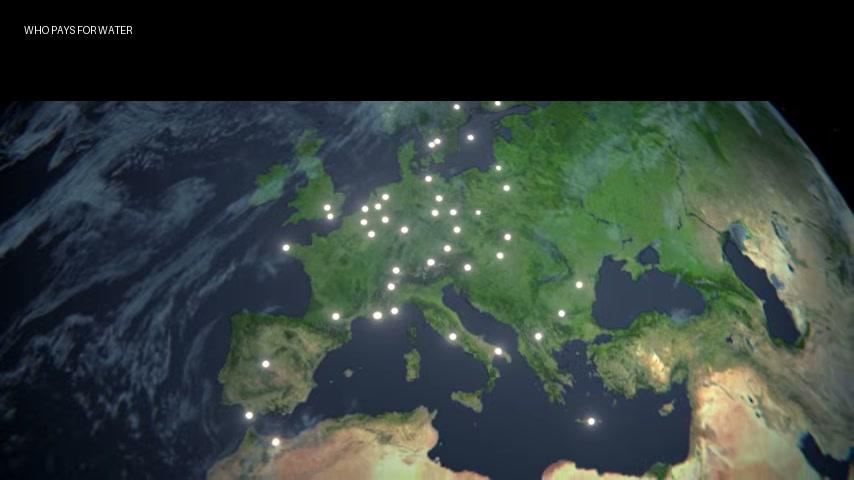
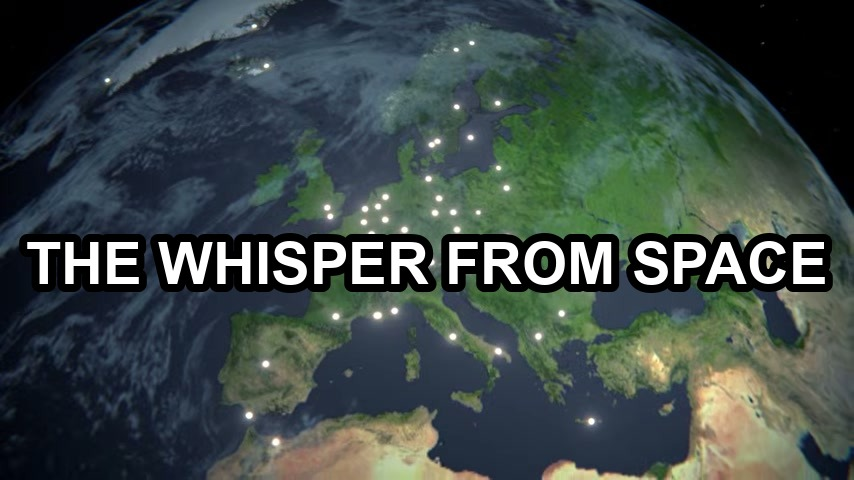
content(medium): GPS jamming review fixes + correct hero overlay, drop presenter frame

Changed region(s): [[0.0304, 0.0, 0.9133, 0.2188], [0.0, 0.4688, 0.9742, 0.625]]

diff --git a/nextjs/public/medium/youtube-gps-jamming-clue-space-tz23g-uxcga/index.html b/nextjs/public/medium/youtube-gps-jamming-clue-space-tz23g-uxcga/index.html
@@ -5,7 +5,7 @@
   <meta name="viewport" content="width=device-width, initial-scale=1">
   <meta name="robots" content="index,follow">
   <meta name="article:status" content="preview">
[2 lines of base64/hex data omitted]
   <link rel="canonical" href="https://www.maxpetrusenko.com/medium/youtube-gps-jamming-clue-space-tz23g-uxcga/">
   <title>Something Is Jamming GPS Over Europe. The Clue Was in Space</title>
   <style>
@@ -80,7 +80,7 @@
 <body>
   <main>
 <h1>Something Is Jamming GPS Over Europe. The Clue Was in Space</h1>
-<p><em>A Veritasium investigation follows Todd Humphreys from continent-wide signal drops to Cosmos 2546. GPS is weak radio timing infrastructure, and operators need a fallback.</em></p>
+<p><em>GPS works because Earth listens to a whisper from space. Someone found a way to shout over it.</em></p>
 <figure><img src="/medium/youtube-gps-jamming-clue-space-tz23g-uxcga/assets/youtube-frames/selected/01-continental-signal-drops-overlay.jpg" alt="A continental visualization of GNSS signal drops over Europe"></figure>
 <blockquote><p>GPS jamming works because satellite navigation depends on extremely weak timing signals from distant clocks. A receiver compares when several satellite signals arrive, then calculates position and time. A stronger transmission in the same band can drown out that timing data and turn a precise system into noise.</p></blockquote>
 <p>The blue dot feels solid because the interface is solid. You press a button, the map centers itself, the car reroutes, the plane descends, the delivery arrives, and the timestamp agrees with the tower timestamp. Nobody has to think about the radio physics under the glass.</p>
@@ -90,10 +90,9 @@
 <p>In November 2024, University of Texas at Austin GPS researcher Todd Humphreys received a narrow tip. Check two exact times in public data collected years earlier by GNSS reference stations. Humphreys and Zach Clements looked, found the times, and saw receivers across a wide network drop at the same moment.</p>
 <p>The measured signal-to-noise ratio fell by roughly a factor of ten. Looking backward, they found 75 days since 2019 with similar disruptions. The arXiv paper, <em>Chasing Lightning</em>, describes &quot;scores of powerful transient wide-area interference events over continental Europe, Greenland, and Canada since 2019&quot; and identifies the likely source as a constellation of Russian early-warning satellites in Molniya orbits. The paper has been submitted for journal review, so the right posture is attention with the temperature kept low (<a href="https://arxiv.org/abs/2606.03673" target="_blank" rel="noopener noreferrer">Chasing Lightning on arXiv</a>).</p>
 <p>The early map suggested Poland or Kaliningrad, an area already associated with electronic warfare and GNSS disruption. The geometry made that too simple because a ground source has terrain, curvature, and altitude limits. The disruptions appeared across a huge footprint at the same time, including Svalbard and westward receivers as far as Canada.</p>
-<figure><img src="/medium/youtube-gps-jamming-clue-space-tz23g-uxcga/assets/youtube-frames/selected/02-gps-signal-whisper.jpg" alt="GPS uses timing differences from distant satellites; the useful signal arrives tiny"></figure>
 <h2>GPS is a timing system that happens to draw maps</h2>
 <p>GPS, Galileo, GLONASS, BeiDou, and related systems sit under the broader name GNSS, Global Navigation Satellite Systems. A receiver solves position by comparing arrival times from multiple satellites. Each satellite tells the receiver where it was and when the signal left, and the receiver compares that with when the signal arrived. Time becomes distance, then distance becomes the dot on the map.</p>
-<p>The scale creates the weakness inside the magic trick. A timing error of 100 nanoseconds throws position off by about 30 meters. Atmospheric delay and relativity both matter, and the transcript puts the received GPS signal near 10^-16 watts, a number so small that &quot;signal&quot; almost feels like bravado. Jamming exploits that asymmetry by making the receiver hear something louder than the satellite clocks.</p>
+<p>The scale creates the weakness inside the magic trick. 100 nanoseconds corresponds to about 30 meters of light-travel distance, which shows how brutally sensitive GNSS is to timing. Atmospheric delay and relativity both matter, and the transcript puts the received GPS signal near 10^-16 watts, a number so small that &quot;signal&quot; almost feels like bravado. Jamming exploits that asymmetry by making the receiver hear something louder than the satellite clocks.</p>
 <p>Aviation makes GNSS failures visible because aircraft report them, cross borders, and fly high enough to keep line of sight to interference. The dependency reaches further into cell towers, financial systems, logistics networks, ports, emergency response, mapping apps, and ordinary phones. The map app is only the surface of a shared timing dependency.</p>
 <p>A September 2025 Associated Press report carried by PBS said European Commission President Ursula von der Leyen&#39;s plane was hit by GPS jamming on a flight to Bulgaria, and it cited Baltic and Nordic warnings about growing interference from Russia. Latvia recorded 820 satellite-signal interference cases in 2024, up from 26 in 2022. Those figures do not assign every event to the same source. They show that satellite-navigation interference has moved from background noise to operational reality (<a href="https://www.pbs.org/newshour/world/what-to-know-about-russias-gps-jamming-of-a-european-officials-plane" target="_blank" rel="noopener noreferrer">PBS report on the AP story</a>).</p>
 <h2>The schedule ruled out accident</h2>
@@ -108,11 +107,10 @@
 <p>The candidate that stayed aligned was Cosmos 2546, a Russian satellite launched in 2020. It tracked the hyperboloid within the uncertainty of public orbital data. Cosmos 2546 cannot explain events before its launch in May 2020, but it belongs to a broader Russian early-warning constellation in Molniya orbits. The <a href="https://arxiv.org/abs/2606.03673" target="_blank" rel="noopener noreferrer">Chasing Lightning</a> abstract says the paper uses received-power and time-difference-of-arrival techniques to identify that constellation as the interference source.</p>
 <p>Orbital altitude changes the threat model. A jammer on the ground has geography working against it. A source in space has line of sight to a continent.</p>
 <h2>The map is already noisy</h2>
-<figure><img src="/medium/youtube-gps-jamming-clue-space-tz23g-uxcga/assets/youtube-frames/selected/03-jamming-map-europe.jpg" alt="Aircraft-reported interference over Europe appears as a heat map on GPSJam.org"></figure>
+<figure><img src="/medium/youtube-gps-jamming-clue-space-tz23g-uxcga/assets/youtube-frames/selected/03-jamming-map-europe.jpg" alt="Aircraft-reported interference over Europe appears as a live jamming heat map"></figure>
 <p>Most public GPS interference maps are built from aircraft reports. <a href="https://gpsjam.org/?lat=55.22483&amp;lon=17.23509&amp;z=5.8&amp;date=2024-10-14" target="_blank" rel="noopener noreferrer">GPSJam.org</a> visualizes degraded navigation by aggregating aircraft data, which is useful because planes become sensors. It is incomplete because it shows the world through systems that report their own navigation quality.</p>
-<p>Spire&#39;s 2025 Baltic report makes the same point from a commercial satellite-data angle. In an October 2024 case around the Baltic Sea, Spire described GNSS disruption near Kaliningrad and confirmed aircraft navigation impacts from satellite-based monitoring. It also reported that Polish researchers and GPSPATRON detected 84 hours of GNSS interference over six months, with position errors exceeding 30 meters in cited maritime reporting (<a href="https://spire.com/blog/space-reconnaissance/gnss-interference-report-russia/" target="_blank" rel="noopener noreferrer">Spire GNSS interference report</a>).</p>
-<p>Each layer does a different job in the evidence stack. Aircraft show navigation failures in flight, ground stations show signal behavior at fixed receivers, satellite data can reveal patterns that heat maps miss, and raw radio captures can turn a mystery into a source hypothesis. Jamming and spoofing live in the ambiguity between those layers, so the honest claim has to stay narrower than the scary one.</p>
-<p>The narrow claim is still large enough to matter. Satellite navigation has become contested infrastructure. A map can show disruption while leaving intent open, a diplomatic statement can blame a state while hiding methods, a research paper can identify a likely source while still needing peer review, and an aircraft can lose reliable GPS and land safely using other systems.</p>
+<p>Spire&#39;s 2025 Baltic report makes the same point from a commercial satellite-data angle. In an October 2024 case around the Baltic Sea, Spire described GNSS disruption near Kaliningrad and confirmed aircraft navigation impacts from satellite-based monitoring, while Polish researchers and GPSPATRON detected 84 hours of GNSS interference over six months, with position errors exceeding 30 meters in cited maritime reporting (<a href="https://spire.com/blog/space-reconnaissance/gnss-interference-report-russia/" target="_blank" rel="noopener noreferrer">Spire GNSS interference report</a>).</p>
+<p>Each layer does a different job in the evidence stack: aircraft show navigation failures in flight, ground stations show signal behavior at fixed receivers, satellite data can reveal patterns that heat maps miss, and raw radio captures can turn a mystery into a source hypothesis. Jamming and spoofing live in the ambiguity between those layers, so the honest claim has to stay narrower than the scary one. A map can show disruption while leaving intent open, a research paper can identify a likely source while still needing peer review, and an aircraft can lose reliable GPS and land safely using other systems.</p>
 <h2>The dependency is older than the app</h2>
 <figure><img src="/medium/youtube-gps-jamming-clue-space-tz23g-uxcga/assets/youtube-frames/selected/04-gnss-constellation.jpg" alt="GNSS is global timing infrastructure wrapped around Earth"></figure>
 <p>The consumer version of GPS is that it tells you where you are. GNSS gives machines a shared sense of time and position, and modern systems quietly built themselves around that gift. Once a free, precise, global signal existed, engineers absorbed it into aviation procedures, port operations, cell network synchronization, financial timestamps, logistics, and phones.</p>
